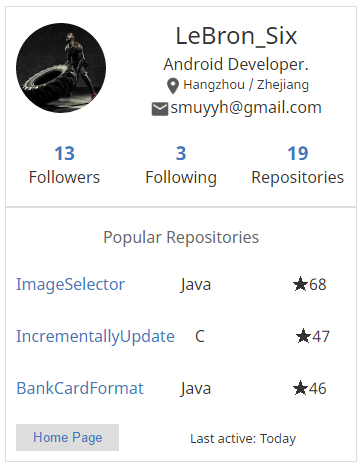
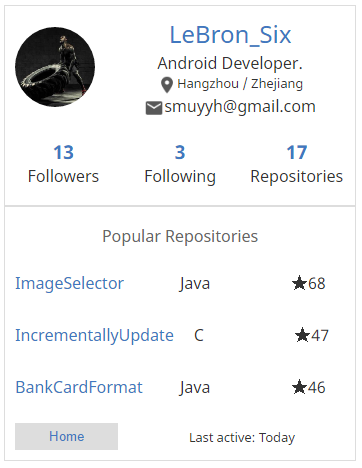
resize

diff --git a/js/github_user_widget_en.js b/js/github_user_widget_en.js
@@ -57,7 +57,7 @@ function lastPushedDay(a) {
     return Math.floor((b - c) / 864E5)
 }
 function updateUserDetails(a, b) {
-    appendToWidget(b + " .gh-widget-personal-details", "div", "full-name", a.name);
+    appendToWidget(b + " .gh-widget-personal-details", "div", "full-name", '<a class="gh-widget-link" target="new" href="' + a.html_url + '">'+a.name+'</a>');
     a.bio && appendToWidget(b + " .gh-widget-personal-details", "div", "bio", a.bio);
     a.location && appendToWidget(b + " .gh-widget-personal-details", "div", "location", '<img src="http://www.iconres.com/android/res/material_icons/external-assets/v4/icons/png/ic_location_on_black_48dp.png" width=20 height=20 />'+a.location);
 	a.email && appendToWidget(b + " .gh-widget-personal-details", "div", "email", '<img src="http://www.iconres.com/android/res/material_icons/external-assets/v4/icons/png/ic_email_black_48dp.png" width=20 height=20 />'+a.email);
@@ -65,7 +65,7 @@ function updateUserDetails(a, b) {
     appendToWidget(b + " .gh-widget-stats", "div", "gh-widget-item", '<div class="count">' + a.following + '</div><div class="stat-name">Following</div>');
     appendToWidget(b + " .gh-widget-stats", "div", "gh-widget-item", '<div class="count">' + a.public_repos + '</div><div class="stat-name">Repositories</div>');
     appendToWidget(b + " .gh-widget-photo", "span", "", '<img src="' + a.avatar_url + '">');
-    appendToWidget(b + " .gh-widget-follow", "button", "", '<a class="gh-widget-link" target="new" href="' + a.html_url + '">Home Page</a>')
+    appendToWidget(b + " .gh-widget-follow", "button", "", '<a class="gh-widget-link" target="new" href="' + a.html_url + '">Home</a>')
 }
 function updateRepoDetails(a, b) {
     for (var c = 0; c < a.length; c++) 

diff --git a/js/github_repo_widget_en.js b/js/github_repo_widget_en.js
@@ -50,7 +50,7 @@ $(function () {
 					        <table class="issues" width="100%"></table> \
 					    </div> \
 					    <div class="github-box-download"> \
-					        <p class="updated"><a href="' + repo.url.replace('api.', '').replace('repos/', '') + '/tree/master" target="_blank"><strong>master</strong>branch</a>Latest Commit：' + pushed_at + '</p> \
+					        <p class="updated"><a href="' + repo.url.replace('api.', '').replace('repos/', '') + '/tree/master" target="_blank"><strong>master</strong>branch</a> Latest Commit：' + pushed_at + '</p> \
 					        <a class="download" href="' + repo.url.replace('api.', '').replace('repos/', '') + '/zipball/master">Download Zip</a> \
 					    </div> \
 					</div> \

diff --git a/sample/sample.html b/sample/sample.html
@@ -6,7 +6,8 @@
 </head>
 <body>
 <div class="github-widget" data-username="smuyyh"></div>
-<script type="text/javascript" src="https://rawgit.com/smuyyh/GitHubWidgets/master/js/github_user_widget_en.js"></script>
+<script type="text/javascript" src="../js/github_user_widget_en.js"></script>
+<!--<script type="text/javascript" src="https://rawgit.com/smuyyh/GitHubWidgets/master/js/github_user_widget_en.js"></script>-->
 
 <br>
 
